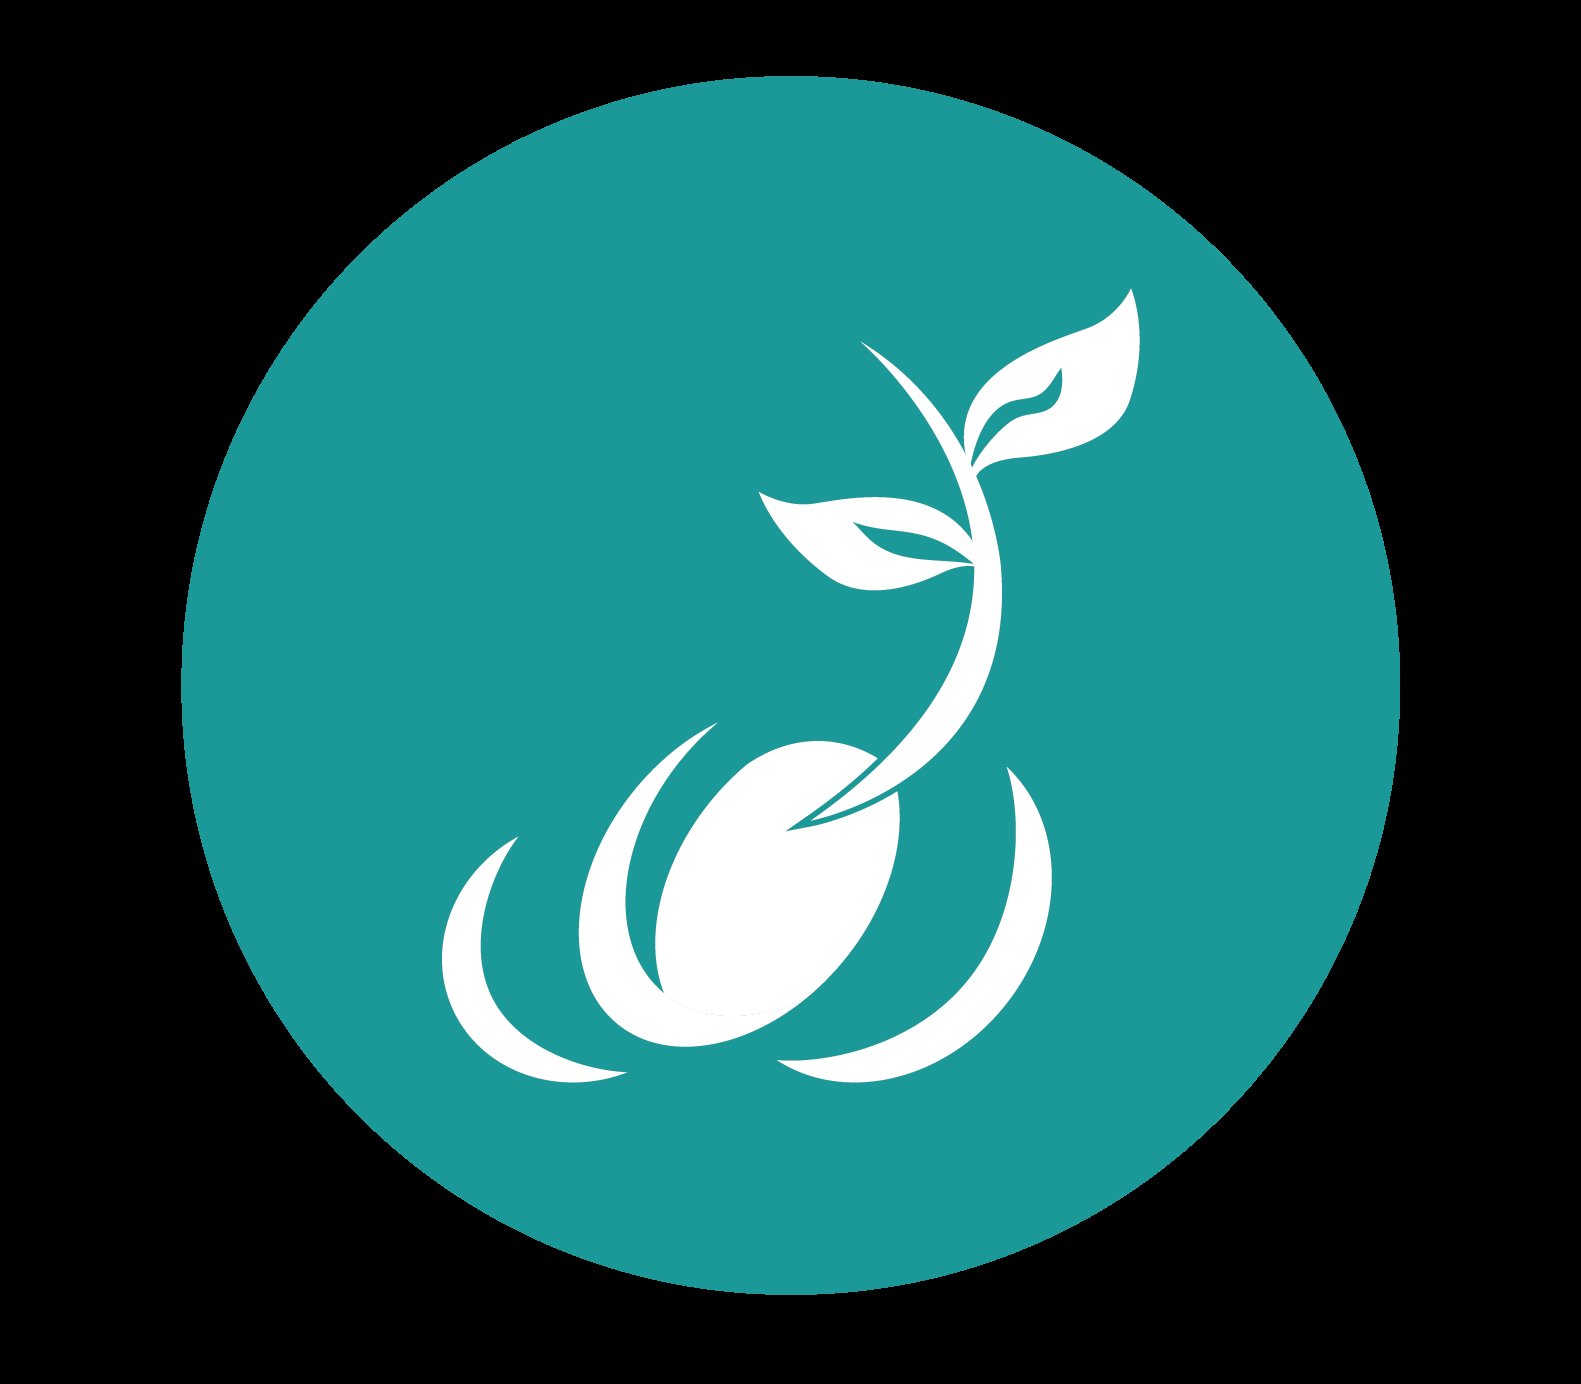
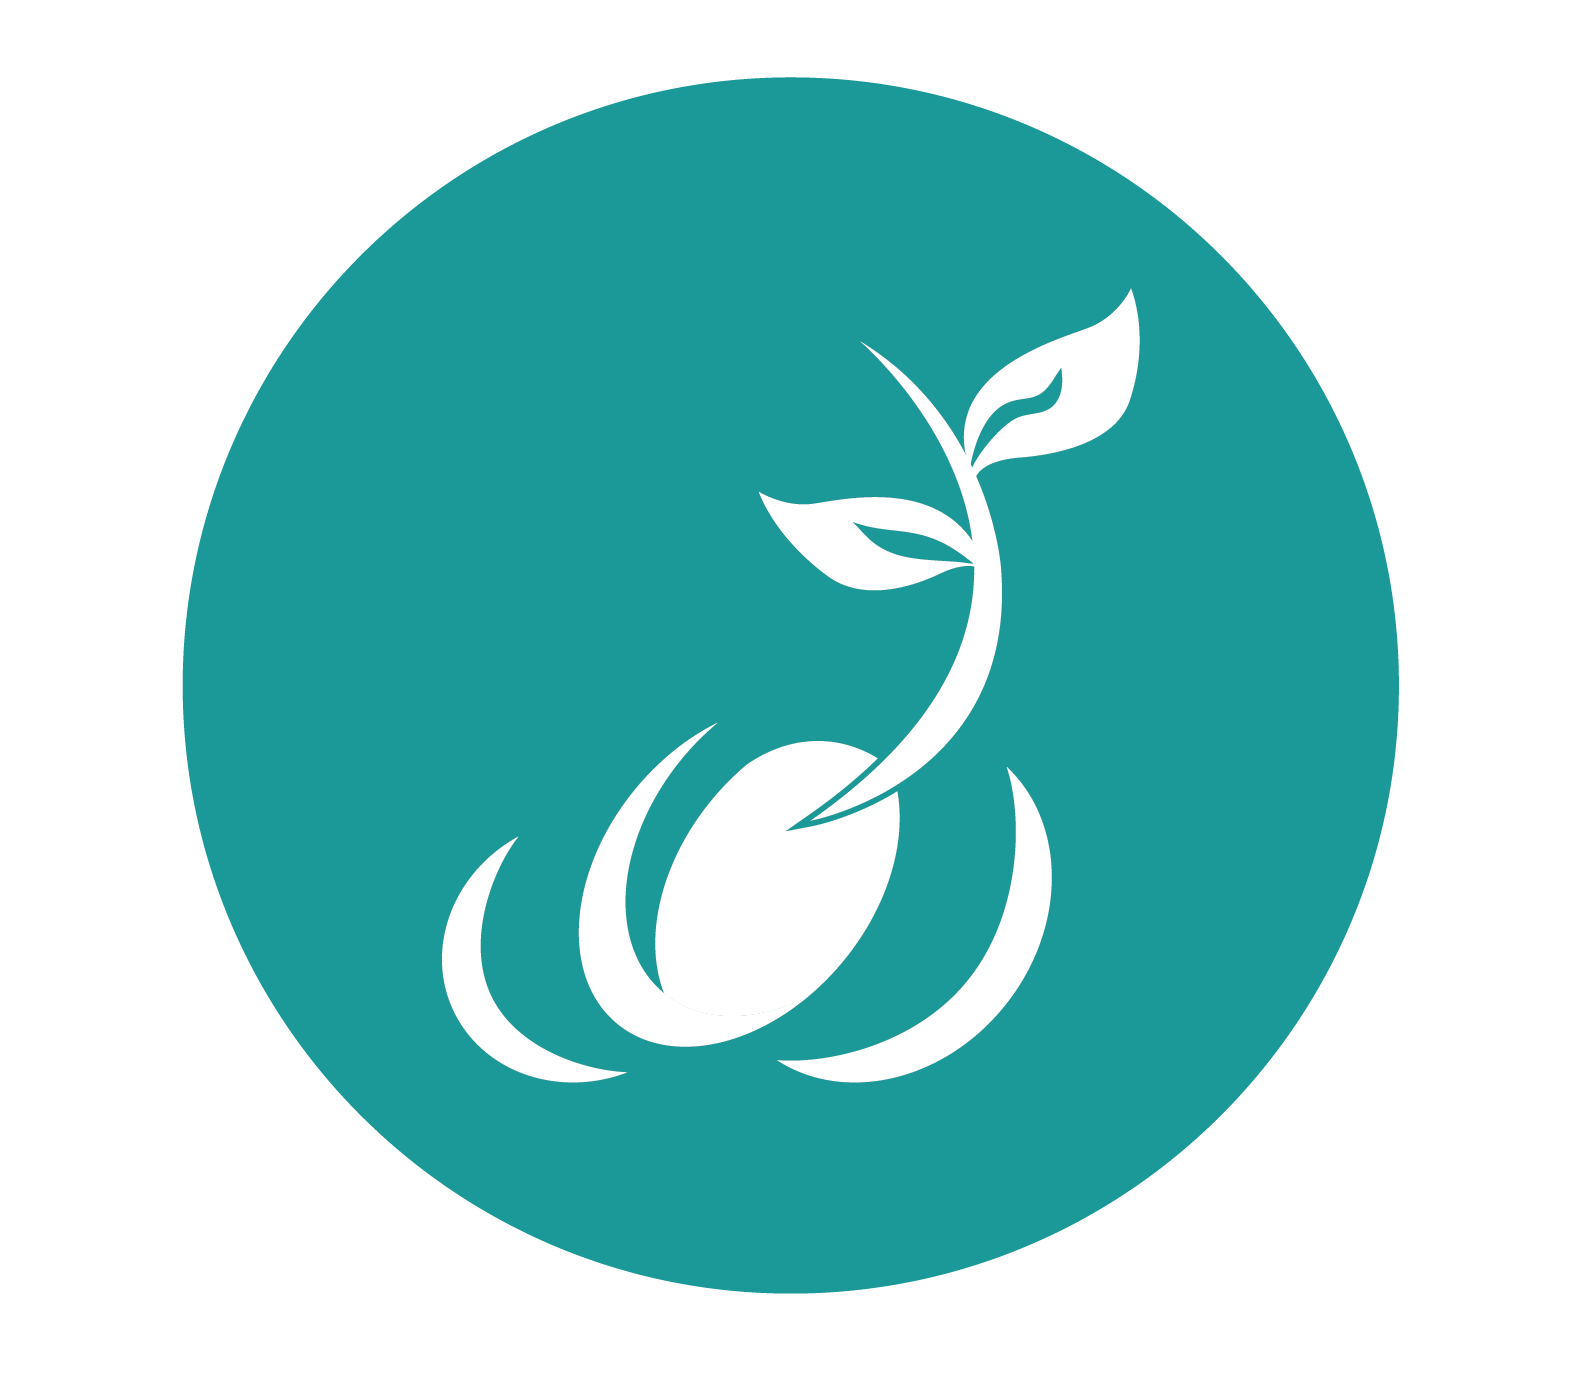
fix(018): make branded PDF actually match the seed (header repeat, viewport, asset alpha)
The first PDF passed CI (text-layer + size guards) but visual review showed
three concrete defects vs the seed:

1. CSS `position: fixed` does not repeat header / footer across pages in
   Blink HTML→PDF. The seedling rendered once at the bottom of page 1; the
   partner-strip floated mid-body on page 2+. R-001 was wrong.
2. CSS `pt` font sizes rendered visually halved because Blink's default
   layout viewport is ~1200px wide, scaled down to the 595pt PDF page —
   so a `36pt` h1 became ~18pt on the page. The cover title never
   wrapped to two lines as the seed shows.
3. The seedling PNG was extracted from the seed PDF without alpha, so
   the logo rendered with a black square frame rather than a transparent
   cut-out.

Architectural fix: stop trying to make Blink repeat HTML chrome. Pull the
repeating elements out of the body and draw them directly on every page's
PdfGraphics after conversion. Tried two intermediate Syncfusion paths
(BlinkConverterSettings.PdfHeader and PdfDocument.Template.Top) — both
placed the band at body-top, overlapping content. Direct page-graphics
draw with explicit absolute Y inside the margin reserve is unambiguous.

Concretely:

- `SyncfusionFundingAgreementPdfRenderer`
  - Accept optional `headerImageAbsolutePath` / `footerImageAbsolutePath`.
  - After `Convert(html, baseUrl)`, iterate `document.Pages` and call
    `page.Graphics.DrawImage(...)` for each. Page 0 (cover) gets a 130pt
[…]

diff --git a/src/FundingPlatform.Infrastructure/DocumentGeneration/SyncfusionFundingAgreementPdfRenderer.cs b/src/FundingPlatform.Infrastructure/DocumentGeneration/SyncfusionFundingAgreementPdfRenderer.cs
@@ -2,6 +2,7 @@ using FundingPlatform.Application.DTOs;
 using FundingPlatform.Application.Interfaces;
 using FundingPlatform.Domain.Exceptions;
 using FundingPlatform.Domain.ValueObjects;
+using Syncfusion.Drawing;
 using Syncfusion.HtmlConverter;
 using Syncfusion.Pdf;
 using Syncfusion.Pdf.Graphics;
@@ -10,47 +11,42 @@ namespace FundingPlatform.Infrastructure.DocumentGeneration;
 
 public class SyncfusionFundingAgreementPdfRenderer : IFundingAgreementPdfRenderer
 {
+    // Spec 018 / FR-003 — A4 portrait, 18mm L/R, top/bottom adjusted to reserve
+    // room for renderer-drawn header (seedling) and footer (partner-strip).
+    // Conversion: 1mm ≈ 2.83465pt.
+    //   * Top margin = 90pt (~32mm) — fits the ~80pt seedling band plus a
+    //     ~10pt breath before body content.
+    //   * Bottom margin = 70pt (~25mm) — fits the ~56pt partner-strip band
+    //     plus ~14pt breath after body.
+    //   * L/R margin = 51.02pt (~18mm).
+    private const float MarginTop = 100f;
+    private const float MarginBottom = 75f;
+    private const float MarginLR = 51.02f;
+    private const float HeaderImageHeight = 80f;
+    private const float HeaderImageHeightCover = 130f;
+    private const float FooterImageHeight = 50f;
+    private const float HeaderTopPadding = 10f;
+    private const float FooterBottomPadding = 14f;
+
     public Task<byte[]> RenderAsync(string html, string? baseUrl)
     {
-        var converter = new HtmlToPdfConverter(HtmlRenderingEngine.Blink);
-
-        // Spec 018 / FR-003 — A4 portrait, 20mm top/bottom + 18mm left/right.
-        // Conversion: 1mm ≈ 2.83465pt → 20mm ≈ 56.69pt, 18mm ≈ 51.02pt. The
-        // CSS @page rule in _FundingAgreementLayout.cshtml controls layout;
-        // these renderer-side values mirror it so Blink reserves the same
-        // strip for the position: fixed header / footer (R-001).
-        var blinkSettings = new BlinkConverterSettings
-        {
-            PdfPageSize = PdfPageSize.A4,
-            Margin = new PdfMargins
-            {
-                Top = 56.69f,
-                Bottom = 56.69f,
-                Left = 51.02f,
-                Right = 51.02f,
-            },
-            EnableJavaScript = false
-        };
-
-        converter.ConverterSettings = blinkSettings;
-
-        using var document = converter.Convert(html, baseUrl ?? string.Empty);
-        using var stream = new MemoryStream();
-        document.Save(stream);
-        document.Close(true);
-
-        return Task.FromResult(stream.ToArray());
+        return RenderInternalAsync(html, baseUrl, headerImagePath: null, footerImagePath: null);
     }
 
     /// <summary>
     /// Spec 015 / US5 / T511 — pre-flights the per-line conversion metadata, then
     /// renders the document. The HTML render delegate runs only when the
     /// pre-flight succeeds, so a failed validation never spends Razor work.
+    /// Spec 018 — header / footer are drawn at the renderer level (R-001-revised)
+    /// because CSS <c>position: fixed</c> does not repeat across pages in
+    /// Blink HTML→PDF.
     /// </summary>
     public async Task<byte[]> RenderFromModelAsync(
         IReadOnlyList<FundingAgreementItemRowDto> items,
         Func<Task<string>> renderHtmlAsync,
         string? baseUrl = null,
+        string? headerImageAbsolutePath = null,
+        string? footerImageAbsolutePath = null,
         CancellationToken ct = default)
     {
         ArgumentNullException.ThrowIfNull(items);
@@ -61,7 +57,159 @@ public class SyncfusionFundingAgreementPdfRenderer : IFundingAgreementPdfRendere
         ct.ThrowIfCancellationRequested();
 
         var html = await renderHtmlAsync().ConfigureAwait(false);
-        return await RenderAsync(html, baseUrl).ConfigureAwait(false);
+        return await RenderInternalAsync(html, baseUrl, headerImageAbsolutePath, footerImageAbsolutePath)
+            .ConfigureAwait(false);
+    }
+
+    private static Task<byte[]> RenderInternalAsync(
+        string html,
+        string? baseUrl,
+        string? headerImagePath,
+        string? footerImagePath)
+    {
+        var converter = new HtmlToPdfConverter(HtmlRenderingEngine.Blink);
+
+        var blinkSettings = new BlinkConverterSettings
+        {
+            PdfPageSize = PdfPageSize.A4,
+            Margin = new PdfMargins
+            {
+                Top = MarginTop,
+                Bottom = MarginBottom,
+                Left = MarginLR,
+                Right = MarginLR,
+            },
+            // Spec 018 / R-003 — Print media type enables Blink's table-header
+            // repeat across page breaks (the <thead> band reappears on the
+            // continuation page so the reader never sees a headerless table
+            // fragment). Also unblocks @media print rules in the layout.
+            MediaType = MediaType.Print,
+            // Spec 018 — pin Blink's layout viewport to A4-at-96dpi pixels
+            // (794x1123). Default viewport width is ~1200px; HTML laid out
+            // at 1200px is then scaled to the 595pt PDF page width, which
+            // visually halves CSS font sizes (36pt CSS → ~18pt on page).
+            // Matching viewport pixels to PDF dpi-pt makes 1 CSS pt ≈ 1 PDF pt.
+            ViewPortSize = new Syncfusion.Drawing.Size(794, 1123),
+            EnableJavaScript = false
+        };
+
+        converter.ConverterSettings = blinkSettings;
+
+        using var document = converter.Convert(html, baseUrl ?? string.Empty);
+
+        // Spec 018 / FR-001 + FR-002 — repeating brand chrome by drawing the
+        // seedling header and partner-strip footer directly on each page's
+        // Graphics, in absolute page coordinates, INSIDE the margin reserve
+        // computed via Margin.Top (90pt) / Margin.Bottom (70pt). Earlier
+        // attempts via the CSS `position: fixed` approach failed (Blink does
+        // not repeat fixed elements across pages), the
+        // BlinkConverterSettings.PdfHeader path placed the band at body-top
+        // rather than page-top, and PdfDocument.Template.Top likewise
+        // overlapped body content. Direct page-graphics draw is unambiguous
+        // and fully under our control.
+        if (headerImagePath is not null)
+        {
+            DrawImageOnEveryPage(
+                document,
+                headerImagePath,
+                placement: ImagePlacement.HeaderCentered,
+                imageHeight: HeaderImageHeight);
+        }
+        if (footerImagePath is not null)
+        {
+            DrawImageOnEveryPage(
+                document,
+                footerImagePath,
+                placement: ImagePlacement.FooterStretched,
+                imageHeight: FooterImageHeight);
+        }
+
+        using var stream = new MemoryStream();
+        document.Save(stream);
+        document.Close(true);
+
+        return Task.FromResult(stream.ToArray());
+    }
+
+    private enum ImagePlacement
+    {
+        /// <summary>
+        /// Header band: square seedling logo, centered horizontally inside
+        /// the top-margin reserve. Drawn 12pt below the page top edge so the
+        /// logo reads as a balanced "above-the-fold" mark on every page.
+        /// </summary>
+        HeaderCentered,
+
+        /// <summary>
+        /// Footer band: wide partner-logo strip, stretched to the inside
+        /// content width, sitting in the bottom-margin reserve.
+        /// </summary>
+        FooterStretched,
+    }
+
+    private static void DrawImageOnEveryPage(
+        PdfDocument document,
+        string imageAbsolutePath,
+        ImagePlacement placement,
+        float imageHeight)
+    {
+        var bytes = File.ReadAllBytes(imageAbsolutePath);
+        using var imageStream = new MemoryStream(bytes);
+        var bitmap = new PdfBitmap(imageStream);
+
+        for (var pageIndex = 0; pageIndex < document.Pages.Count; pageIndex++)
+        {
+            var page = document.Pages[pageIndex];
+            var pageSize = page.Size;
+
+            SizeF imageSize;
+            PointF imageOrigin;
+
+            switch (placement)
+            {
+                case ImagePlacement.HeaderCentered:
+                {
+                    // Header logo. Aspect-preserving height. Cover page (index
+                    // 0) gets a larger seedling matching the seed's prominent
+                    // brand mark; continuation pages use the smaller 80pt
+                    // version. The cover variant slightly extends into the
+                    // body area, but `.cover-page { padding-top: 60pt }` in
+                    // the layout keeps the title clear.
+                    var targetHeight = pageIndex == 0
+                        ? HeaderImageHeightCover
+                        : imageHeight;
+                    var aspect = (float)bitmap.Width / bitmap.Height;
+                    var targetWidth = targetHeight * aspect;
+                    imageSize = new SizeF(targetWidth, targetHeight);
+                    imageOrigin = new PointF(
+                        (pageSize.Width - targetWidth) / 2f,
+                        HeaderTopPadding);
+                    break;
+                }
+
+                case ImagePlacement.FooterStretched:
+                {
+                    // Footer strip stretched to inner content width.
+                    var contentWidth = pageSize.Width - (2f * MarginLR);
+                    var aspect = (float)bitmap.Height / bitmap.Width;
+                    var targetWidth = contentWidth;
+                    var targetHeight = Math.Min(imageHeight, targetWidth * aspect);
+                    imageSize = new SizeF(targetWidth, targetHeight);
+                    imageOrigin = new PointF(
+                        MarginLR,
+                        // Anchor the strip inside the bottom-margin reserve.
+                        // Body content ends at y=pageHeight-MarginBottom; the
+                        // strip lives in the reserve below that boundary.
+                        pageSize.Height - FooterBottomPadding - targetHeight);
+                    break;
+                }
+
+                default:
+                    throw new InvalidOperationException("Unknown placement.");
+            }
+
+            page.Graphics.DrawImage(bitmap, imageOrigin, imageSize);
+        }
     }
 
     /// <summary>

diff --git a/src/FundingPlatform.Web/Controllers/FundingAgreementController.cs b/src/FundingPlatform.Web/Controllers/FundingAgreementController.cs
@@ -180,14 +180,26 @@ public class FundingAgreementController : Controller
             // MissingConversionMetadataException for any non-CRC line that
             // lacks an embedded rate snapshot.
             // Spec 018 / FR-001 + FR-004 — Blink HTML→PDF resolves relative
-            // asset URLs (vendored fonts under wwwroot/lib/fonts/, brand PNGs
-            // under wwwroot/lib/brand/pdf/) against this baseUrl. Without it,
-            // the rendered PDF shows alt text where the seedling header and
-            // partner-strip footer should be, and the Fraunces+Inter font
-            // stack falls back to default sans-serif.
+            // asset URLs (vendored fonts under wwwroot/lib/fonts/) against
+            // this baseUrl. Without it, the Fraunces+Inter font stack falls
+            // back to default sans-serif and the cover/section typography
+            // breaks parity with the seed.
             var assetsBaseUrl = new Uri(
                 Path.GetFullPath(_env.WebRootPath) + Path.DirectorySeparatorChar
             ).AbsoluteUri;
+
+            // Spec 018 / FR-001 + FR-002 (R-001-revised) — the seedling header
+            // and partner-strip footer images are drawn at the renderer level
+            // via PdfPageTemplateElement so they repeat reliably on every
+            // page. CSS `position: fixed` was the original technique but
+            // Blink does not honour it across page breaks, leaving the chrome
+            // mis-positioned (overlapping body content / dropping off after
+            // page 1). The images live under wwwroot/lib/brand/pdf/ and are
+            // swap-file-only per FR-018.
+            var headerImagePath = Path.Combine(
+                _env.WebRootPath, "lib", "brand", "pdf", "header-seedling.png");
+            var footerImagePath = Path.Combine(
+                _env.WebRootPath, "lib", "brand", "pdf", "footer-partners-strip.png");
 
             pdfBytes = await _pdfRenderer.RenderFromModelAsync(
                 documentModel.Items,
@@ -195,6 +207,10 @@ public class FundingAgreementController : Controller
                     "~/Views/FundingAgreement/Document.cshtml",
                     documentModel),
                 baseUrl: assetsBaseUrl,
+                headerImageAbsolutePath: System.IO.File.Exists(headerImagePath)
+                    ? headerImagePath : null,
+                footerImageAbsolutePath: System.IO.File.Exists(footerImagePath)
+                    ? footerImagePath : null,
                 ct: HttpContext.RequestAborted);
         }
         catch (MissingConversionMetadataException ex)

diff --git a/src/FundingPlatform.Application/Interfaces/IFundingAgreementPdfRenderer.cs b/src/FundingPlatform.Application/Interfaces/IFundingAgreementPdfRenderer.cs
@@ -26,10 +26,20 @@ public interface IFundingAgreementPdfRenderer
     /// The <paramref name="renderHtmlAsync"/> delegate is invoked only after
     /// the pre-flight succeeds, so a failed validation never spends Razor
     /// rendering work.
+    ///
+    /// Spec 018 — when <paramref name="headerImageAbsolutePath"/> /
+    /// <paramref name="footerImageAbsolutePath"/> are supplied, the renderer
+    /// draws those images as repeating per-page header / footer via
+    /// Syncfusion's <c>PdfPageTemplateElement</c> path (FR-001 / FR-002 /
+    /// R-001-revised). CSS <c>position: fixed</c> does not repeat across pages
+    /// in Blink HTML→PDF, so the brand chrome is drawn at the renderer level
+    /// rather than from inside the HTML body.
     /// </summary>
     Task<byte[]> RenderFromModelAsync(
         IReadOnlyList<FundingAgreementItemRowDto> items,
         Func<Task<string>> renderHtmlAsync,
         string? baseUrl = null,
+        string? headerImageAbsolutePath = null,
+        string? footerImageAbsolutePath = null,
         CancellationToken ct = default);
 }

diff --git a/tests/FundingPlatform.Tests.Integration/PdfGeneration/PdfRenderingTests.cs b/tests/FundingPlatform.Tests.Integration/PdfGeneration/PdfRenderingTests.cs
@@ -192,7 +192,12 @@ public class PdfRenderingTests
             "Mixed-currency requests must render the conversion note (FR-027).");
         Assert.That(text, Does.Contain("Tipo Compra"),
             "Conversion note must include the localised RateType (Compra).");
-        Assert.That(text, Does.Contain("vigente desde 2026-05-01"),
+        // Spec 018 — narrower Blink viewport may wrap "vigente desde" onto
+        // a separate line from the date; assert the two tokens independently
+        // rather than as a fixed-spaced substring.
+        Assert.That(text, Does.Contain("vigente desde"),
+            "Conversion note must include the 'vigente desde' phrase.");
+        Assert.That(text, Does.Contain("2026-05-01"),
             "Conversion note must include the effective-since date.");
         Assert.That(text, Does.Contain("520"),
             "Conversion note must include the rate value.");
